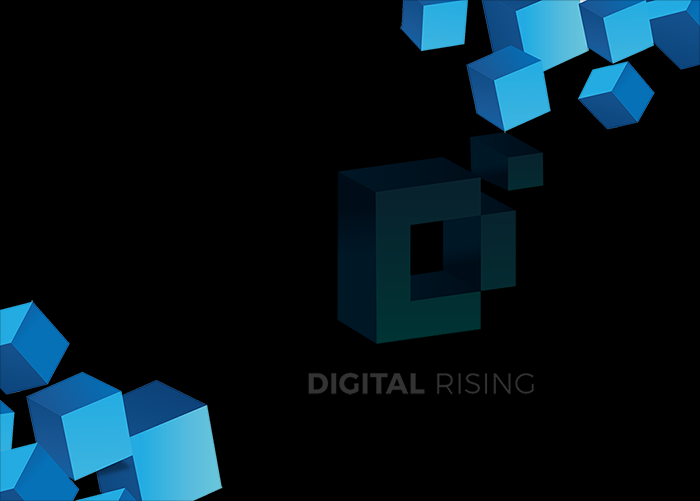
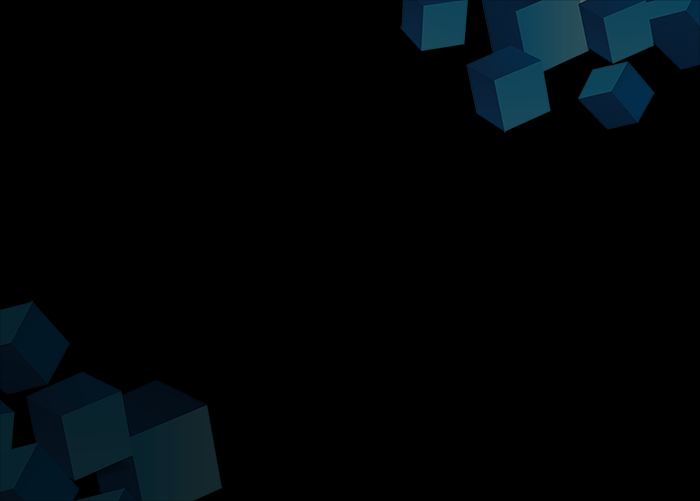
pantalla contactanos, correcciones en otras paginas, nuevo fondo

Changed region(s): [[0.48, 0.0, 1.0, 0.6886], [0.0, 0.5988, 0.33, 1.0], [0.42, 0.7485, 0.75, 0.8084]]

diff --git a/contacto.html b/contacto.html
@@ -50,118 +50,118 @@
                         </div>
                     </div>
 
-                   
-
-
                     <div class="row">
-                        <div class="small-12 medium-12 large-12 columns medium-centered large-centered">
-                            <div class="row">
-                                <div class="small-12 medium-6 large-6 columns">
-                                    <div class="BackgroundContactanos">
-                                        <div class="row">
-                                            <div class="small-12 medium-6 large-6 columns medium-centered large-centered box--medium centrarDiv ">
-                                                <h3>¡Queremos ayudarte!</h3>
-                                                <p>Env&iacute;anos tus datos y te contactaremos lo antes posible para coordinar tu cita y atenderte como te mereces.</p>
-                                            </div>
-                                        </div>
-                                    </div>
-                                </div>
-                                <div class="small-12 medium-6 large-6 columns">
-                                    <form action="javascript:contacto();" id="myForm" method="POST">
-                                        <fieldset class="fieldset">
-                                            <div class="row">
-                                                <div class="small-12 medium-6 large-6 columns">
-                                                    <label for="nombre">Nombre</label>
-                                                    <input type="text" name="nombre" id="nombre" required pattern="[a-zA-Z]+" />
-
-                                                </div>
-                                                <div class="small-12 medium-6 large-6 columns">
-                                                    <label for="nombre">Apellido</label>
-                                                    <input type="text" name="apellido" id="apellido" required pattern="[a-zA-Z]+" />
-                                                </div>
-                                            </div>
-                                            <div class="row">
-                                                <div class="small-12 medium-6 large-6 columns">
-                                                    <label for="correo">Correo</label>
-                                                    <input type="email" name="correo" id="correo" />
-
-                                                </div>
-                                                <div class="small-12 medium-6 large-6 columns">
-                                                    <label for="celular">Celular</label>
-                                                    <input type="text" name="celular" id="celular" />
-                                                </div>
-                                            </div>
-                                            <div class="row">
-                                                <div class="small-12 medium-6 large-6 columns">
-                                                    <label for="fechaSolicitada">Fecha</label>
-                                                    <input type="date" name="fechaSolicitada" id="fechaSolicitada" />
-                                                </div>
-                                                <div class="small-12 medium-6 large-6 columns">
-                                                    <label for="horaSolicitada">Hora</label>
-                                                    <input type="time" name="horaSolicitada" id="horaSolicitada" />
-                                                </div>
-                                            </div>
-                                            <div class="row">
-                                                <div class="small-12 medium-12 large-12 columns">
-                                                    <input type="submit" value="ENVIAR" class="button expanded BotonContactanos">
-                                                </div>
-                                            </div>
-                                        </fieldset>
-                                    </form>
-                                </div>
-
-
-                            </div>
+                        <div class="small-12 medium-6 large-6 columns medium-centered large-centered box--medium centrarDiv tituloPantalla">
+                            <h3>¡Queremos ayudarte!</h3>
+                            <p>Env&iacute;anos tus datos y te contactaremos lo antes posible para coordinar tu cita y atenderte como te mereces.</p>
                         </div>
                     </div>
 
-
-
-                    <!--<div class="row ">
-                        <div class="small-12 medium-6 large-6 columns medium-centered large-centered">
+                    <div class="row ">
+                        <div class="small-12 medium-6 large-6 columns medium-centered large-centered ">
                             <form action="javascript:contacto();" id="myForm" method="POST">
                                 <fieldset class="fieldset">
                                     <div class="row">
+                                        <div class="small-12 medium-12 large-12 columns ">
+                                            <div class="card ">
+                                                <div class="card-divider contactanos">
+                                                    <img src="img/contactanos.png" class="imgContactanos" style="height:200px; width:100%;">                                             
+                                                </div>
+
+                                            </div>
+                                        </div>
+                                    </div>
+                                    <div class="row ">
                                         <div class="small-12 medium-6 large-6 columns">
-                                            <label for="nombre">Nombre</label>
+                                            <label for="nombre" class="tituloPantalla">Nombre</label>
                                             <input type="text" name="nombre" id="nombre" required pattern="[a-zA-Z]+" />
 
                                         </div>
                                         <div class="small-12 medium-6 large-6 columns">
-                                            <label for="nombre">Apellido</label>
+                                            <label for="nombre" class="tituloPantalla">Apellido</label>
                                             <input type="text" name="apellido" id="apellido" required pattern="[a-zA-Z]+" />
                                         </div>
                                     </div>
-                                    <div class="row">
+                                    <div class="row ">
                                         <div class="small-12 medium-6 large-6 columns">
-                                            <label for="correo">Correo</label>
+                                            <label for="correo" class="tituloPantalla">Correo</label>
                                             <input type="email" name="correo" id="correo" />
 
                                         </div>
                                         <div class="small-12 medium-6 large-6 columns">
-                                            <label for="celular">Celular</label>
+                                            <label for="celular" class="tituloPantalla">Celular</label>
                                             <input type="text" name="celular" id="celular" />
                                         </div>
                                     </div>
-                                    <div class="row">
+                                    <div class="row ">
                                         <div class="small-12 medium-6 large-6 columns">
-                                            <label for="fechaSolicitada">Fecha</label>
+                                            <label for="fechaSolicitada" class="tituloPantalla">Fecha</label>
                                             <input type="date" name="fechaSolicitada" id="fechaSolicitada" />
                                         </div>
                                         <div class="small-12 medium-6 large-6 columns">
-                                            <label for="horaSolicitada">Hora</label>
+                                            <label for="horaSolicitada" class="tituloPantalla">Hora</label>
                                             <input type="time" name="horaSolicitada" id="horaSolicitada" />
                                         </div>
                                     </div>
                                     <div class="row">
                                         <div class="small-12 medium-12 large-12 columns">
-                                            <input type="submit" value="ENVIAR" class="button expanded BotonContactanos">
+                                            <input type="submit" value="ENVIAR" class="button expanded BotonVerde">
                                         </div>
                                     </div>
                                 </fieldset>
                             </form>
                         </div>
-                    </div>-->
+                    </div>
+
+
+
+
+
+                    <!--<div class="row ">
+        <div class="small-12 medium-6 large-6 columns medium-centered large-centered">
+            <form action="javascript:contacto();" id="myForm" method="POST">
+                <fieldset class="fieldset">
+                    <div class="row">
+                        <div class="small-12 medium-6 large-6 columns">
+                            <label for="nombre">Nombre</label>
+                            <input type="text" name="nombre" id="nombre" required pattern="[a-zA-Z]+" />
+
+                        </div>
+                        <div class="small-12 medium-6 large-6 columns">
+                            <label for="nombre">Apellido</label>
+                            <input type="text" name="apellido" id="apellido" required pattern="[a-zA-Z]+" />
+                        </div>
+                    </div>
+                    <div class="row">
+                        <div class="small-12 medium-6 large-6 columns">
+                            <label for="correo">Correo</label>
+                            <input type="email" name="correo" id="correo" />
+
+                        </div>
+                        <div class="small-12 medium-6 large-6 columns">
+                            <label for="celular">Celular</label>
+                            <input type="text" name="celular" id="celular" />
+                        </div>
+                    </div>
+                    <div class="row">
+                        <div class="small-12 medium-6 large-6 columns">
+                            <label for="fechaSolicitada">Fecha</label>
+                            <input type="date" name="fechaSolicitada" id="fechaSolicitada" />
+                        </div>
+                        <div class="small-12 medium-6 large-6 columns">
+                            <label for="horaSolicitada">Hora</label>
+                            <input type="time" name="horaSolicitada" id="horaSolicitada" />
+                        </div>
+                    </div>
+                    <div class="row">
+                        <div class="small-12 medium-12 large-12 columns">
+                            <input type="submit" value="ENVIAR" class="button expanded BotonContactanos">
+                        </div>
+                    </div>
+                </fieldset>
+            </form>
+        </div>
+    </div>-->
 
 
                     <footer class="row expanded collapse footerc">

diff --git a/home.html b/home.html
@@ -50,7 +50,7 @@
                     <div class="row colorTexto">
                         <div class="small-12 medium-12 large-12 columns medium-centered large-centered box--homeSlogan centrarDiv">
                             <h2>Soluciones Digitales</h2>
-                            <p>Llevando al siguiente nivel el desarrollo de tu negocio </p>
+                            <p><i>Llevando al siguiente nivel el desarrollo de tu negocio</i> </p>
                         </div>
                     </div>
 
@@ -111,28 +111,28 @@
                         <div class="small-12 medium-3 large-3 columns backG1 cambiar ">                           
                             <div class="panel">
                                 <h5>ANALIZAMOS</h5>
-                                <p>Analizamos los procesos de tu empresa.</p>
+                                <p>Los procesos de tu empresa.</p>
                             </div>
                         </div>
                         <div class="small-12 medium-3 large-3 columns backG2 cambiar ">
                             
                             <div class="panel">
                                 <h5>DESARROLLAMOS</h5>
-                                <p>Desarrollamos soluciones que optimicen tus procesos.</p>
+                                <p>Soluciones que optimicen tus procesos.</p>
                             </div>
                         </div>
                         <div class="small-12 medium-3 large-3 columns backG3 cambiar ">
                             
                             <div class="panel">
                                 <h5>IMPLEMENTAMOS</h5>
-                                <p>implementamos las soluciones a tus procesos.</p>
+                                <p>Las soluciones a tus procesos.</p>
                             </div>
                         </div>
                         <div class="small-12 medium-3 large-3 columns backG4 cambiar ">
                            
                             <div class="panel">
                                 <h5>DAMOS SOPORTE</h5>
-                                <p>Damos soporte para tus nuevas herramientas.</p>
+                                <p>Para tus nuevas herramientas.</p>
                             </div>
                         </div>
                     </div>

diff --git a/css/app.css b/css/app.css
@@ -129,7 +129,7 @@ height: 125px;
     margin-bottom:75px;
     text-align: center;
     padding-top:50px;
-    border-bottom: 8px outset white; 
+    
 
     
 }
@@ -170,7 +170,7 @@ width:100%;
 
 .tituloPantalla
 {
-	color: #FFFFFF;
+	color: #FFFFFF!important;
 }
 
 [class*="imagenTitulo"] {
@@ -321,6 +321,19 @@ width:100%;
   align-items: center;
 }
 
+.contactanos:hover
+{
+  opacity: 0.3;
+  filter: alpha(opacity=30);
+  color:#000000;
+  
+  box-shadow: inset 0 0 0 3px #555953;
+  text-align:center;
+  display: flex;
+  justify-content: center;
+  align-items: center;
+}
+
 .filtroSlider
 {
 filter: blur(10px);
@@ -425,6 +438,11 @@ text-align-last:center;
 { 
  
   padding:0px!important;
+}
+
+.imgContactanos
+{
+height:350px;
 }
 
 .imgInfo:hover
